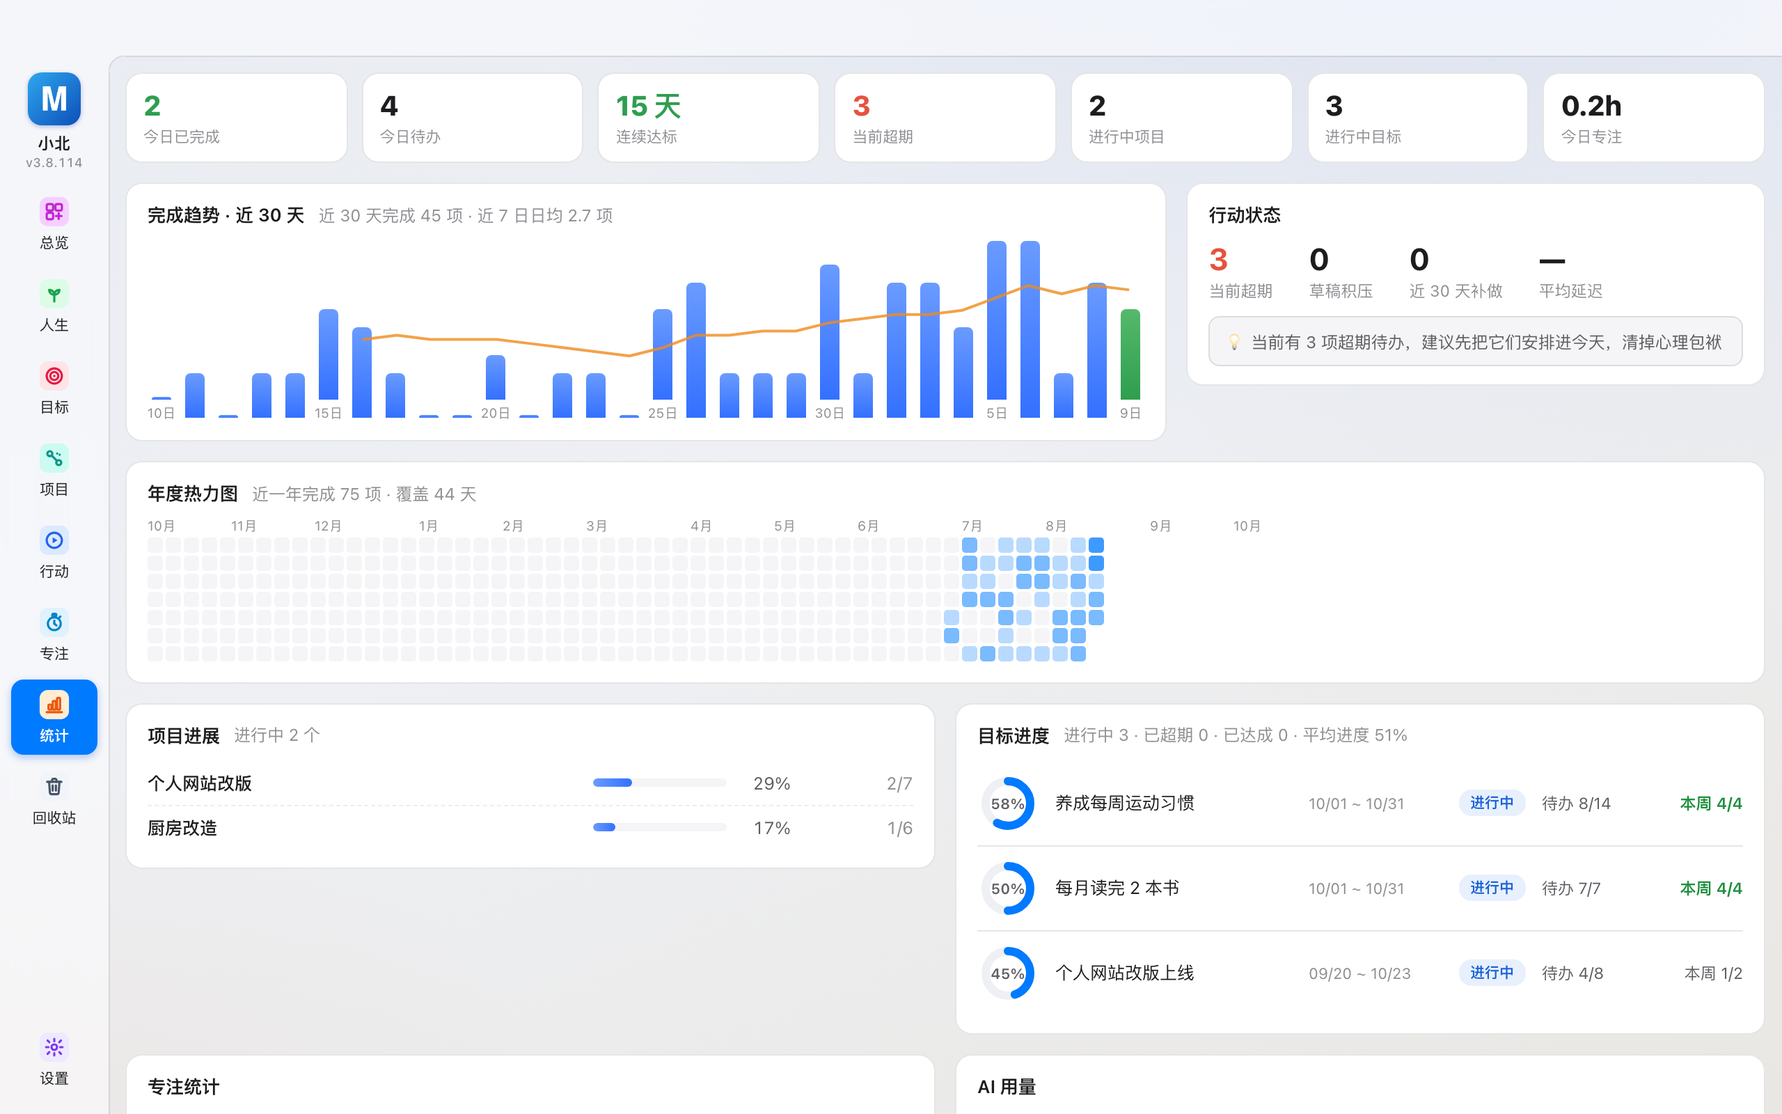
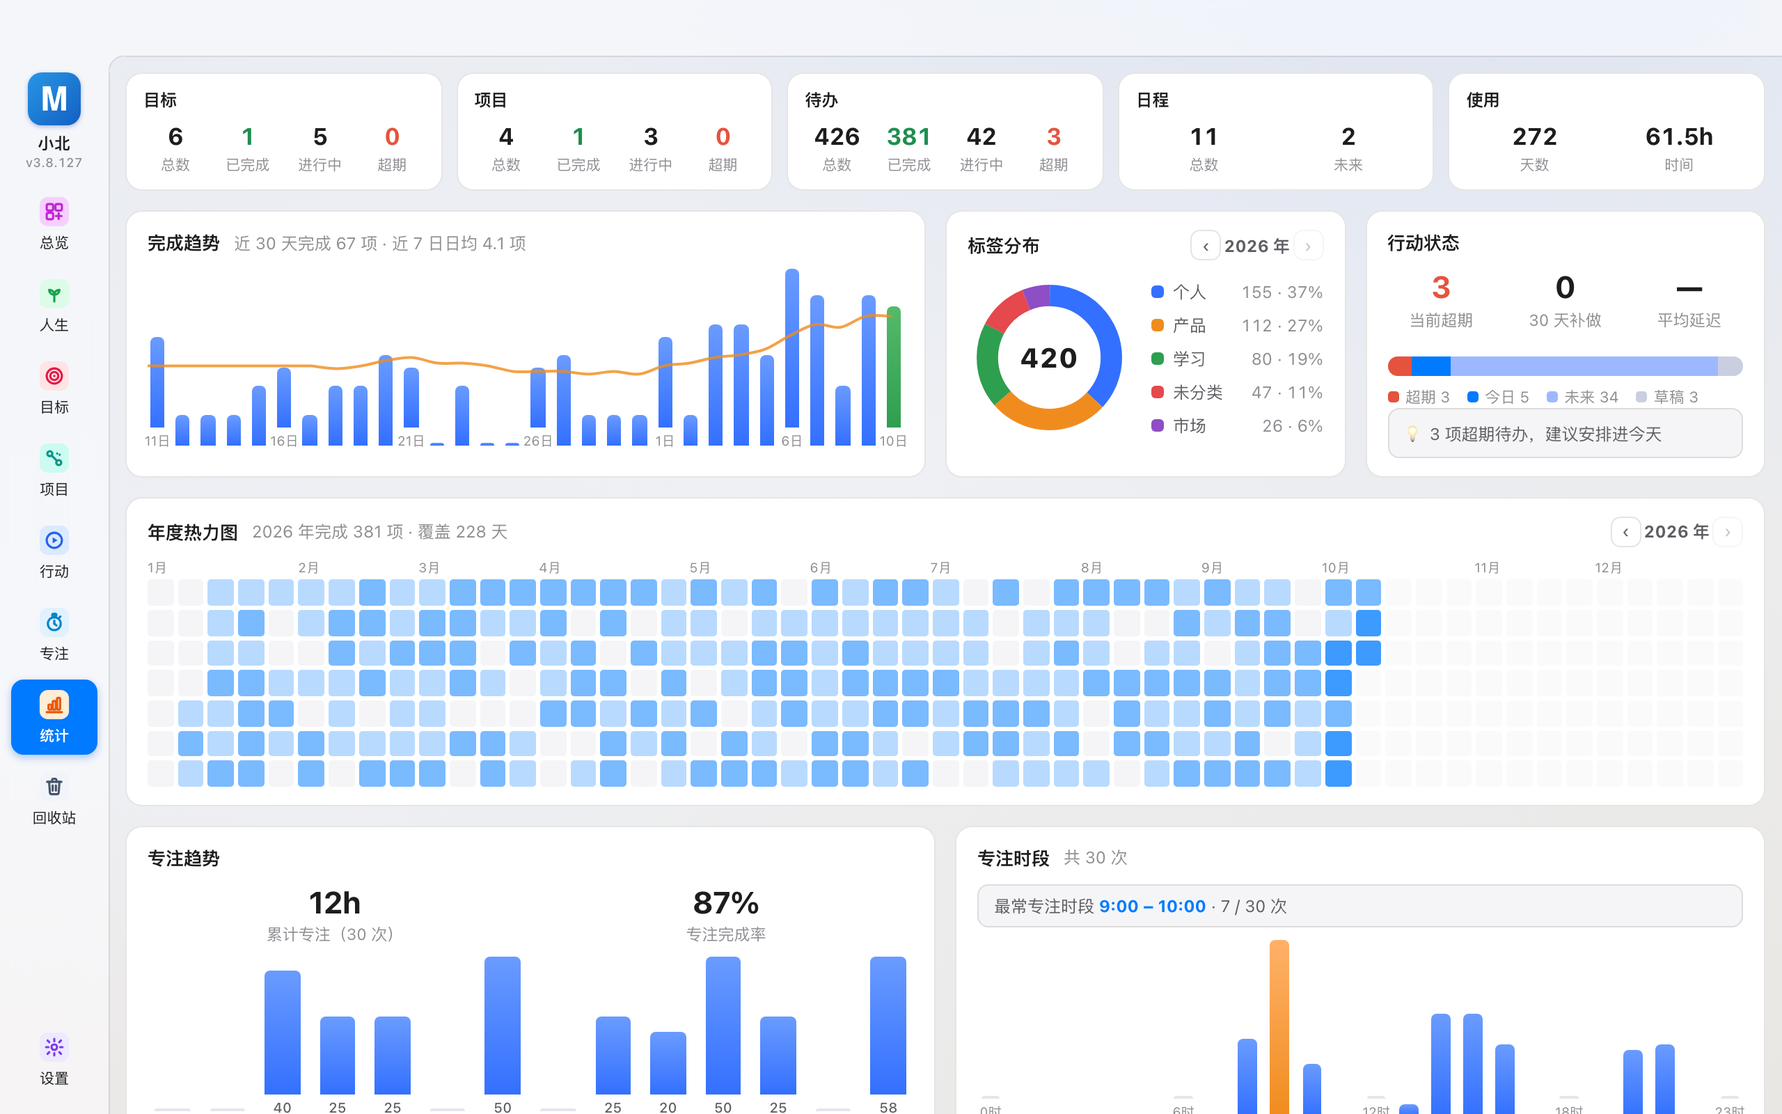
示例数据 v3 加厚：周视图时刻化、项目/目标扩容、统计页数据铺满，重截 8 张截图
- 周视图：本周每天 3-6 条带时刻日程/限时任务进时间轴，全天栏每格仅留 0-2 条（目标打卡/超期杂务）
- 项目 2→4：新增 Q4 产品规划（进行中）+ 搬家整理（去年已完成，统计切年有数）
- 目标 3→6：新增写日记（去年已达成）、应急基金（财富）、联系朋友（人际），人生之花覆盖 5 维
- 统计加料：完成回填锚定 1 月中起（热力图铺满大半年、已使用 272 天）、新增「学习」标签、
  ai_usage/app_usage 流水（修「使用 0s」）、3 条草稿喂行动状态
- 文案：统计行改「一页看板看清自己」；README/注释旧项目名改 P-MindHub
- 版本号与下载链接保持 v3.8.114 不变

diff --git a/index.html b/index.html
@@ -21,7 +21,7 @@
 })();
 </script>
 <style>
-/* ================= Token（与 P-工作台3 tokens-base.css 同源） ================= */
+/* ================= Token（与 P-MindHub tokens-base.css 同源） ================= */
 :root{
   --bg:#eef0f4; --panel:#ffffff; --border:rgba(0,0,0,.1);
   --text:#1d1d1f; --text2:#5d5d63; --text3:#8e8e93;
@@ -639,8 +639,8 @@ const PAGES = [
    pts:['人生节点、纪念日、生日统一沉淀','与目标平衡轮联动，回看每个阶段','图片与备注，给重要时刻留个位置']},
   {ic:'timer', c:'#0284C7', name:'专注', img:'shot-focus', tag:'一环一秒的沉浸计时',
    pts:['正 / 倒计时双模式，秒针刻度拖尾','任务池环绕圆环，拖入即开始专注','趋势周报 + 当日时间轴 + 沉浸模式']},
-  {ic:'chart', c:'#CA8A04', name:'统计', img:'shot-stat', tag:'七个区块看清自己',
-   pts:['完成趋势近 30 天：柱状 + 均线 + 行动状态建议','年度热力图：一年完成轨迹铺满一屏','项目 / 目标进度汇总，专注与 AI 用量有数']},
+  {ic:'chart', c:'#CA8A04', name:'统计', img:'shot-stat', tag:'一页看板看清自己',
+   pts:['目标 / 项目 / 待办 / 日程 / 使用五卡汇总，完成的每一笔都有数','标签分布饼图 + 年度热力图 + 年份切换回看历史','完成趋势与行动状态建议，专注趋势与时段分布一目了然']},
 ];
 const AI_CAPS = [
   {ic:'doc',     c:'#007AFF', t:'真实数据上下文', d:'每次提问注入待办、日程、项目与目标的实时快照，回答基于你的真实进度，而非泛泛而谈。'},

diff --git a/tools/make_demo_data.py b/tools/make_demo_data.py
@@ -1,5 +1,11 @@
 #!/usr/bin/env python3
 """生成虚构演示数据库 /tmp/wbdemo/workbench.db（人设：小北 · 产品经理）。
+v3（2026-10-10）：示例数据全面加厚——
+- 周视图时刻化：本周每天 3-6 条带 start/deadline 的日程/限时任务进时间轴，每天仅 0-2 条留全天栏；
+- 项目 2→4（新增 Q4 规划 + 去年已完成的「搬家整理」，喂统计页项目卡年份切换）；
+- 目标 3→6（+写日记[去年已达成]、应急基金[财富]、联系朋友[人际]，覆盖 5 个维度）；
+- 统计加料：完成回填扩到 -70 天（已使用天数 71）、热力更密、专注回填 -42 天且时段拉宽、
+  新增 5 号标签「学习」、3 条草稿喂「草稿积压」、ai_usage 流水 14 天喂 AI 用量区块。
 v2（2026-10-09）：
 - 日期全部锚定「今天」动态生成（TODAY = date.today()），任何一天重跑数据都贴当前日期；
 - 目标新增月历打卡事件（events 表内 goalId+planId+date，done:true）喂「月历多色格」，
@@ -57,10 +63,10 @@ m_last = (m_first + timedelta(days=32)).replace(day=1) - timedelta(days=1)
 put('userName', '小北')
 put('birthday', '1995-06-15')
 
-# ── 标签（快照缺失时补演示标签）─────────────────────
-if not get('tags'):
-    put('tags', [{"id": "tag_demo1", "name": "产品"}, {"id": "tag_demo2", "name": "销售"},
-                 {"id": "tag_demo3", "name": "市场"}, {"id": "tag_demo4", "name": "个人"}])
+# ── 标签（演示库全量重建，直接覆盖为 5 个演示标签）─────
+put('tags', [{"id": "tag_demo1", "name": "产品"}, {"id": "tag_demo2", "name": "销售"},
+             {"id": "tag_demo3", "name": "市场"}, {"id": "tag_demo4", "name": "个人"},
+             {"id": "tag_demo5", "name": "学习"}])
 
 # ── 纪念日（无照片 bg）───────────────────────────────
 put('annivs', [
@@ -88,11 +94,12 @@ put('balanceWheel', {"dims": [
     {"name": "财富", "cur": 4}, {"name": "人际", "cur": 6}, {"name": "成长", "cur": 7},
     {"name": "休闲", "cur": 3}, {"name": "爱好", "cur": 4}], "count": 8})
 
-# ── 目标（含月历打卡 + 数值记录）────────────────────
-G1, G2, G3 = 'goal_demo01', 'goal_demo02', 'goal_demo03'
+# ── 目标（含月历打卡 + 数值记录；覆盖 健康/成长/事业/财富/人际 5 维 + 1 个去年已达成）──
+LY = TODAY.year - 1                                                # 去年（喂统计页年份切换）
+G1, G2, G3, G4, G5, G6 = ('goal_demo0%d' % i for i in range(1, 7))
 P11, P12, P13 = 'pt_demo011', 'pt_demo012', 'pt_demo013'
-P21 = 'pt_demo021'
-P31 = 'pt_demo031'
+P21, P31, P51, P61 = 'pt_demo021', 'pt_demo031', 'pt_demo051', 'pt_demo061'
+lyd = lambda mm, dd: f'{LY}-{mm:02d}-{dd:02d}'                     # 去年固定日期
 put('goals', [
     {"id": G1, "title": "养成每周运动习惯", "createdAt": d(-8), "done": False,
      "dim": "健康", "year": TODAY.year, "value": {"start": 0, "target": 12, "unit": "次"},
@@ -113,6 +120,23 @@ put('goals', [
      "startDate": d(-19), "endDate": d(+14),
      "plan": [{"id": P31, "title": "推进开发任务", "freq": "weekly", "start": "", "days": [2, 6], "timesPerWeek": 2}],
      "records": [{"d": d(-17), "v": 5}, {"d": d(-13), "v": 15}, {"d": d(-6), "v": 30}, {"d": d(-2), "v": 45}]},
+    {"id": G4, "title": "坚持写日记 90 天", "createdAt": lyd(10, 8), "done": True,
+     "dim": "成长", "year": LY, "value": {"start": 0, "target": 90, "unit": "天"},
+     "startDate": lyd(10, 8), "endDate": lyd(12, 31),
+     "plan": [{"id": "pt_demo041", "title": "写日记 15 分钟", "freq": "daily", "start": "21:30", "days": [], "timesPerWeek": 7}],
+     "records": [{"d": lyd(10, 12), "v": 5}, {"d": lyd(10, 26), "v": 19}, {"d": lyd(11, 15), "v": 39},
+                 {"d": lyd(11, 30), "v": 54}, {"d": lyd(12, 18), "v": 76}, {"d": lyd(12, 31), "v": 92}]},
+    {"id": G5, "title": "攒出 5 万应急基金", "createdAt": d(-30), "done": False,
+     "dim": "财富", "year": TODAY.year, "value": {"start": 8000, "target": 50000, "unit": "元"},
+     "startDate": d(-30), "endDate": d(+95),
+     "plan": [{"id": P51, "title": "记账 + 定期转入", "freq": "weekly", "start": "", "days": [6], "timesPerWeek": 1}],
+     "records": [{"d": d(-28), "v": 12000}, {"d": d(-20), "v": 18000},
+                 {"d": d(-12), "v": 26000}, {"d": d(-4), "v": 32000}]},
+    {"id": G6, "title": "每周联系一位老朋友", "createdAt": d(-21), "done": False,
+     "dim": "人际", "year": TODAY.year, "value": {"start": 0, "target": 12, "unit": "次"},
+     "startDate": m_first.isoformat(), "endDate": m_last.isoformat(),
+     "plan": [{"id": P61, "title": "约电话或见面", "freq": "weekly", "start": "", "days": [0], "timesPerWeek": 1}],
+     "records": [{"d": d(-14), "v": 1}, {"d": d(-6), "v": 2}]},
 ])
 
 # 月历打卡事件（形状对齐 goal-page.js calPaint：type todo + goalId/planId/source:'goal'）
@@ -134,9 +158,12 @@ CHECKINS = [
     # 网站目标：每周两次推进
     checkin(-17, G3, P31, '推进开发任务'), checkin(-13, G3, P31, '推进开发任务'),
     checkin(-6,  G3, P31, '推进开发任务'), checkin(-2,  G3, P31, '推进开发任务'),
+    # 应急基金：每周六记账；联系朋友：上周 done 一次
+    checkin(-7, G5, P51, '记账 + 定期转入'), checkin(0,  G5, P51, '记账 + 定期转入'),
+    checkin(-6, G6, P61, '约电话或见面'),
 ]
 
-# ── 项目（2 个，带依赖与里程碑）──────────────────────
+# ── 项目（4 个：2 进行中 + 1 进行中规划 + 1 去年已完成，喂统计页项目卡年份切换）──
 put('projects', [
     {"id": "pj_demo01", "title": "个人网站改版", "start": d(-19), "end": d(+14),
      "note": "年度改版：新版视觉 + 博客 + 订阅", "createdAt": d(-19), "tasks": [
@@ -155,6 +182,18 @@ put('projects', [
         {"id": "pt_d204", "title": "水电改造",           "sdate": d(+5),  "date": d(+7),  "done": False, "dep": ["pt_d203"], "subs": [], "ms": False, "note": "", "owner": ""},
         {"id": "pt_d205", "title": "橱柜安装完成",       "sdate": "", "date": d(+12), "done": False, "dep": ["pt_d204"], "subs": [], "ms": True,  "note": "", "owner": ""},
         {"id": "pt_d206", "title": "验收与保洁",         "sdate": "", "date": d(+15), "done": False, "dep": ["pt_d205"], "subs": [], "ms": False, "note": "", "owner": ""}]},
+    {"id": "pj_demo03", "title": "Q4 产品规划", "start": d(-9), "end": d(+25),
+     "note": "四季度路线图与资源排期", "createdAt": d(-9), "tasks": [
+        {"id": "pt_d301", "title": "回顾 Q3 数据与反馈", "sdate": d(-9),  "date": d(-5),  "done": True,  "dep": [], "subs": [], "ms": False, "note": "", "owner": ""},
+        {"id": "pt_d302", "title": "确定 Q4 三大主题",   "sdate": d(-4),  "date": d(+1),  "done": False, "dep": ["pt_d301"], "subs": [], "ms": True,  "note": "里程碑", "owner": ""},
+        {"id": "pt_d303", "title": "排期与人力预估",     "sdate": "", "date": d(+8),  "done": False, "dep": ["pt_d302"], "subs": [], "ms": False, "note": "", "owner": ""},
+        {"id": "pt_d304", "title": "向管理层汇报",       "sdate": "", "date": d(+15), "done": False, "dep": ["pt_d303"], "subs": [], "ms": False, "note": "", "owner": ""}]},
+    {"id": "pj_demo04", "title": "搬家整理", "start": lyd(11, 5), "end": lyd(11, 25),
+     "note": "去年完成的旧项目（已全部交付）", "createdAt": lyd(11, 5), "tasks": [
+        {"id": "pt_d401", "title": "打包与断舍离",   "sdate": lyd(11, 5),  "date": lyd(11, 9),  "done": True, "dep": [], "subs": [], "ms": False, "note": "", "owner": ""},
+        {"id": "pt_d402", "title": "联系搬家公司",   "sdate": lyd(11, 8),  "date": lyd(11, 12), "done": True, "dep": ["pt_d401"], "subs": [], "ms": False, "note": "", "owner": ""},
+        {"id": "pt_d403", "title": "搬家日",         "sdate": lyd(11, 15), "date": lyd(11, 16), "done": True, "dep": ["pt_d402"], "subs": [], "ms": True,  "note": "里程碑", "owner": ""},
+        {"id": "pt_d404", "title": "归置与收纳",     "sdate": lyd(11, 17), "date": lyd(11, 25), "done": True, "dep": ["pt_d403"], "subs": [], "ms": False, "note": "", "owner": ""}]},
 ])
 
 # ── 待办（虚构全量重建）─────────────────────────────
@@ -170,14 +209,33 @@ def todo(date, title, *, start="", deadline="", tag='', pri='normal', note='', p
     return dd
 
 T = list(CHECKINS)
-# 今天（0）
+# 今天（0，周六）：日程/限时任务进时间轴，仅 2 条留全天栏
+t_review = todo(d(0), '产品评审会', start='15:00', deadline='16:00', tag='产品', place='会议室 A', sched=True)
+t_review['subs'] = [{'t': '过订阅功能交互稿', 'd': True}, {'t': '确认性能优化范围', 'd': False}, {'t': '定审稿结论与分工', 'd': False}]
 T += [todo(d(0), '晨会：本周排期对齐', start='09:30', deadline='10:00', tag='产品', done=True, doneAt=d(0), sched=True),
-      todo(d(0), '产品评审会', start='15:00', deadline='16:00', tag='产品', place='会议室 A', sched=True),
       todo(d(0), '项目周会', start='10:00', deadline='10:45', place='会议室 B', sched=True),
-      todo(d(0), '整理竞品调研笔记', tag='产品', note='先补交互细节部分'),
-      todo(d(0), '跑步 3 公里', tag='个人', pri='high'),
+      todo(d(0), '写 PRD：订阅功能', start='11:00', deadline='12:00', tag='产品', done=True, doneAt=d(0)),
+      t_review,
+      todo(d(0), '整理竞品调研笔记', start='16:30', deadline='17:00', tag='产品', note='先补交互细节部分'),
+      todo(d(0), '羽毛球队局', start='17:30', deadline='19:00', tag='个人', place='活力体育馆'),
       todo(d(0), '预约体检', tag='个人', pri='low', note='挂号 App 上约下周三'),
+      todo(d(0), '跑步 3 公里', tag='个人', pri='high'),
       todo(d(0), '周报', tag='产品', repeat='weekly', repeatDays=[5])]
+# 本周已过天（-5 周一 ~ -1 周五）：大部分带时刻，每天至多 1-2 条留全天
+T += [todo(d(-5), '周会：改版排期', start='10:00', deadline='10:45', tag='产品', done=True, doneAt=d(-5), sched=True),
+      todo(d(-5), '回产品群反馈 x6', start='14:00', deadline='14:30', tag='产品', done=True, doneAt=d(-5)),
+      todo(d(-4), '和小林过首页交互', start='10:00', deadline='10:30', tag='产品', done=True, doneAt=d(-4)),
+      todo(d(-4), '厨房改造：看橱柜样品', start='14:00', deadline='15:30', tag='个人', done=True, doneAt=d(-4), place='红星美凯龙'),
+      todo(d(-3), '用户访谈 x1', start='10:00', deadline='11:00', tag='产品', done=True, doneAt=d(-3), sched=True),
+      todo(d(-3), '写 9 月复盘', start='15:00', deadline='16:00', tag='产品', done=True, doneAt=d(-3)),
+      todo(d(-2), '需求评审：订阅功能', start='14:00', deadline='15:00', tag='产品', done=True, doneAt=d(-2), sched=True),
+      todo(d(-2), '健腹轮 4 组', start='19:00', deadline='19:20', tag='个人', done=True, doneAt=d(-2)),
+      todo(d(-1), '发周报给团队', start='17:00', deadline='17:30', tag='产品', done=True, doneAt=d(-1)),
+      todo(d(-1), '和家庭复盘本周开支', start='20:30', deadline='21:00', tag='个人', done=True, doneAt=d(-1)),
+      # 草稿箱（无日期）：喂统计页「草稿积压」，不进周视图
+      todo('', '整理相册备份到 NAS', tag='个人', pri='low'),
+      todo('', '研究年终旅行路线', tag='个人'),
+      todo('', '更新简历', tag='产品', pri='low')]
 # 超期未完成
 T += [todo(d(-4), '缴物业费', tag='个人', pri='low'),
       todo(d(-5), '寄秋茶给爸妈', tag='个人')]
@@ -198,11 +256,11 @@ past = [
     (-8,  '家庭日：公园野餐', '个人', 'normal', True, ('', '')),
     (-7,  '首页开发：导航与 Hero', '产品', 'high', True, ('', '')),
     (-6,  '朋友来家聚餐', '个人', 'normal', True, ('18:00', '21:00')),
-    (-5,  '跑步 3 公里', '个人', 'normal', True, ('', '')),
-    (-4,  '读《产品设计心理学》第 4 章', '个人', 'normal', True, ('', '')),
-    (-4,  '厨房改造：量尺寸', '个人', 'normal', True, ('', '')),
-    (-3,  '首页开发：文章列表', '产品', 'high', True, ('', '')),
-    (-3,  '给爸妈打电话', '个人', 'normal', True, ('', '')),
+    (-5,  '跑步 3 公里', '个人', 'normal', True, ('07:30', '08:05')),
+    (-4,  '读《产品设计心理学》第 4 章', '个人', 'normal', True, ('21:30', '22:00')),
+    (-4,  '厨房改造：量尺寸', '个人', 'normal', True, ('16:00', '16:40')),
+    (-3,  '首页开发：文章列表', '产品', 'high', True, ('09:30', '11:30')),
+    (-3,  '给爸妈打电话', '个人', 'normal', True, ('20:00', '20:15')),
     (-3,  '报销 9 月差旅', '市场', 'low', False, ('', '')),
 ]
 SCHED_PAST = {(-15, '写季度 OKR 草案'), (-11, '需求评审会'), (-10, '用户访谈 x2'), (-6, '朋友来家聚餐')}
@@ -210,19 +268,26 @@ for off, t, tg, p, dn, (s, e) in past:
     T.append(todo(d(off), t, tag=tg, pri=p, start=s, deadline=e, done=dn, doneAt=d(off) if dn else '',
                   sched=(off, t) in SCHED_PAST))
 # 未来一周
-T += [todo(d(+1), '设计评审：改版视觉稿', tag='产品', start='14:00', deadline='15:00', sched=True),
+T += [todo(d(+1), '晨跑 5 公里', tag='个人', start='08:00', deadline='08:40'),
+      todo(d(+1), '设计评审：改版视觉稿', tag='产品', start='14:00', deadline='15:00', sched=True),
       todo(d(+1), '和小林对齐开发排期', tag='产品', start='16:00', deadline='16:30'),
+      todo(d(+1), '睡前阅读 30 分钟', tag='个人', start='22:00', deadline='22:30'),
       todo(d(+2), '写周复盘', tag='产品', pri='low'),
       todo(d(+3), '家庭日：植物园', tag='个人'),
       todo(d(+7), '缴车险', tag='个人', pri='low'),
       todo(d(+160), '车辆年检', tag='个人', repeat='yearly')]
-# 回填约 6 周更早的已完成小任务（喂统计页热力图/趋势，-56..-16）
+# 回填年初以来的已完成小任务（喂统计页热力图/趋势/已使用天数；起点=1 月中，热力图铺满大半年）
 POOL = [('整理周报', '产品'), ('回复用户反馈', '产品'), ('需求文档更新', '产品'), ('数据周报整理', '市场'),
         ('给爸妈打电话', '个人'), ('采购日用品', '个人'), ('读书 30 分钟', '个人'), ('慢跑 2 公里', '个人'),
-        ('整理 Inbox', '个人'), ('和同事 1:1', '产品'), ('健身 30 分钟', '个人'), ('写周复盘', '产品')]
-for off in range(-56, -15):
-    if random.random() < 0.72:
-        for _ in range(1 + (random.random() < 0.3)):
+        ('整理 Inbox', '个人'), ('和同事 1:1', '产品'), ('健身 30 分钟', '个人'), ('写周复盘', '产品'),
+        ('背单词 30 分钟', '学习'), ('上网课 1 节', '学习'), ('整理学习笔记', '学习'), ('写技术周记', '学习')]
+BACKFILL_START = date(TODAY.year, 1, 12)                           # 今年 1 月 12 日开始使用
+SPAN = (TODAY - BACKFILL_START).days
+T.append(todo(BACKFILL_START.isoformat(), '注册 MindHub，开始记录', tag='个人', done=True,
+              doneAt=BACKFILL_START.isoformat()))                  # 最早活动日 → 已使用天数
+for off in range(-SPAN + 1, -15):
+    if random.random() < 0.85:
+        for _ in range(1 + (random.random() < 0.45) + (random.random() < 0.15)):
             t, tg = random.choice(POOL)
             T.append(todo(d(off), t, tag=tg, done=True, doneAt=d(off)))
 
@@ -246,15 +311,17 @@ focus_src = [(-15, '10:04', '写季度 OKR 草案', 1500),
              (-3,  '09:35', '首页开发：文章列表', 1500),
              (-3,  '14:00', '首页开发：文章列表', 1500),
              (-2,  '09:58', '晨会材料', 1500),
-             (0,   '13:40', '整理竞品调研笔记', 760)]
+             (0,   '09:20', '写 PRD：订阅功能', 1500),
+             (0,   '13:40', '整理竞品调研笔记', 760),
+             (0,   '16:10', '产品评审准备', 1200)]
 for off, s, title, sec in focus_src:
     FL.append({"id": rid(), "evId": "", "evTitle": title, "date": d(off), "startAt": s,
                "mode": "down", "target": 25, "seconds": sec, "finished": sec >= 1500})
-for off in range(-28, -14):
-    if random.random() < 0.5:
+for off in range(-42, -14):
+    if random.random() < 0.55:
         t, _ = random.choice(POOL)
         FL.append({"id": rid(), "evId": "", "evTitle": t, "date": d(off),
-                   "startAt": f"{random.choice(['09','10','14','15','20'])}:{random.choice(['05','20','35','50'])}",
+                   "startAt": f"{random.choice(['08','09','10','11','14','15','16','20','21'])}:{random.choice(['05','20','35','50'])}",
                    "mode": "down", "target": 25, "seconds": 1500, "finished": True})
 put('focusLogs', FL)
 
@@ -284,9 +351,25 @@ put('trash', [])
 for k in ('cardGrid', 'ovSplit', 'gfSplit', 'todoSbW', 'pjSbW', 'gfMonth'):
     db.execute("DELETE FROM settings WHERE key=?", (k,))
 
-# ── 清空运行痕迹表 ──────────────────────────────────
+# ── 清空运行痕迹表，再灌入虚构 AI 用量流水（喂统计页 AI 用量区块）──
 db.execute("DELETE FROM ai_usage")
 db.execute("DELETE FROM cache")
+AIMS = ['deepseek-chat', 'deepseek-chat', 'deepseek-reasoner']
+for off in range(-13, 1):
+    for _ in range(random.randint(2, 6)):
+        pt = random.randint(180, 900); ct = random.randint(120, 900)
+        db.execute("INSERT INTO ai_usage VALUES(?,?,?,?,?,?,?)",
+                   (f"{d(off)} {random.randint(9,21):02d}:{random.randint(0,59):02d}:{random.randint(0,59):02d}",
+                    random.choice(AIMS), pt, ct, pt + ct, random.randint(900, 6000),
+                    1 if random.random() > 0.06 else 0))
+
+# ── 页面停留用时流水（v3.8.120 app_usage，喂统计页「使用·时间」）──
+PAGES = ['overview', 'action', 'project', 'goal', 'life', 'focus', 'stat']
+for off in range(-27, 1):
+    for pg in random.sample(PAGES, random.randint(3, 5)):
+        db.execute("INSERT INTO app_usage VALUES(?,?,?,?)",
+                   (d(off), pg, random.randint(60, 1800),
+                    f"{d(off)} {random.randint(8,22):02d}:{random.randint(0,59):02d}:00"))
 
 db.commit()
 

diff --git a/README.md b/README.md
@@ -53,7 +53,7 @@ App 大版本更新后，在仓库根目录执行：
 python3 tools/make_demo_data.py
 
 # 2. 起一次性演示实例（8392，PWB_ORPHAN_OK 免看门狗）
-cd <P-工作台3 项目根>
+cd <P-MindHub 项目根>
 PWB_ORPHAN_OK=1 python3 server/server.py --port=8392 --data-dir=/tmp/wbdemo --web-dir=web &
 
 # 3. 截图（默认连 8392，输出 assets/）
